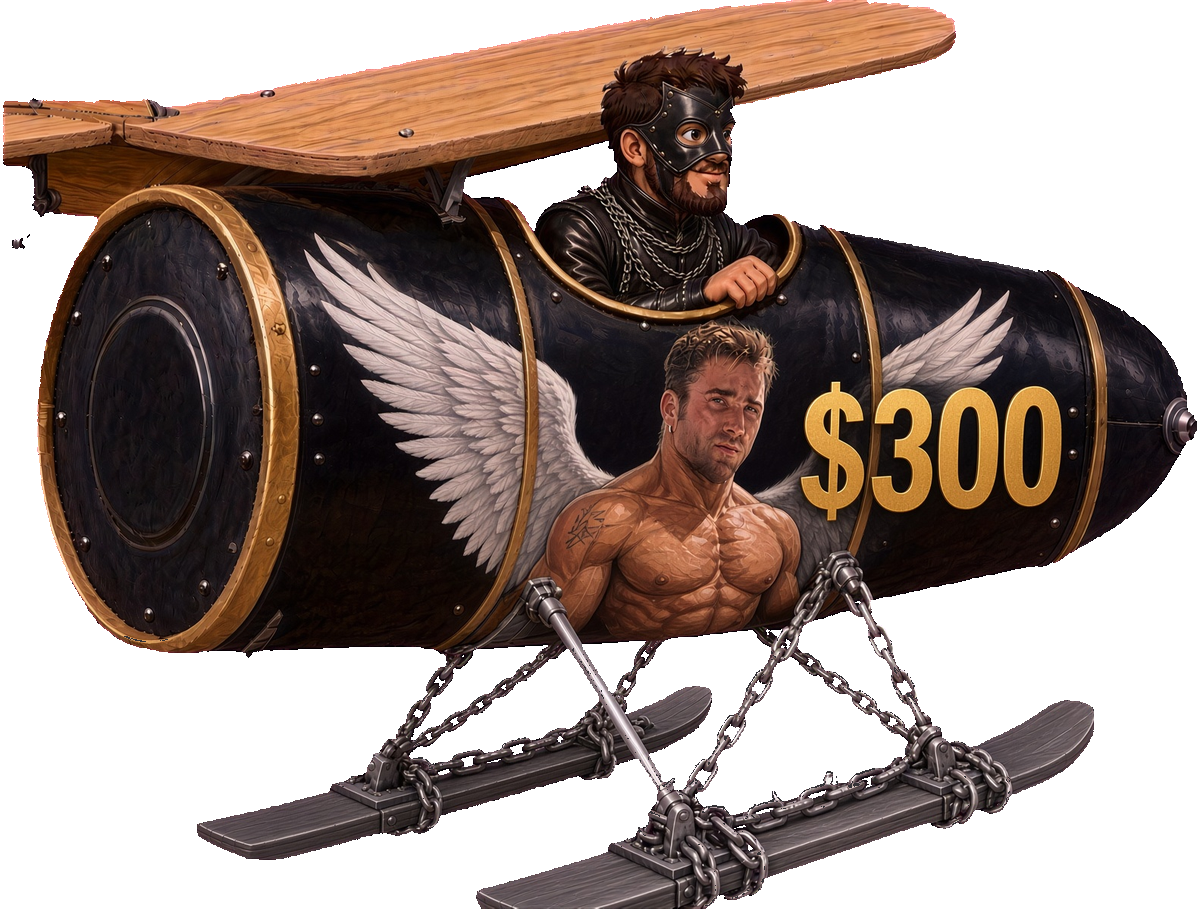
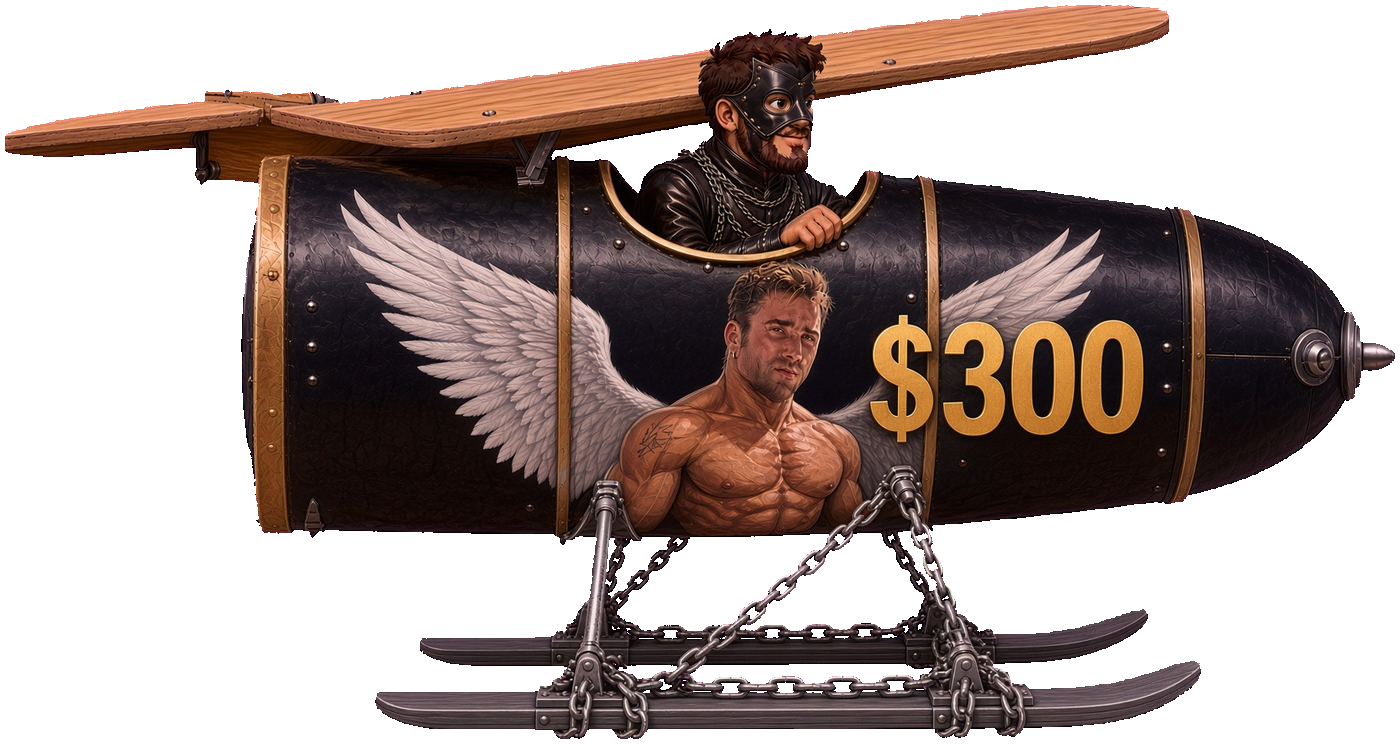
Shorten every route to 1.5 km and reshape the Red Baron.
The red fuselage is a bullet: streamlined nose, flat rear, with two beams and a crossbar for the wings.

diff --git a/src/game/content.ts b/src/game/content.ts
@@ -13,10 +13,10 @@ export type SkinDef = {
 };
 
 export const SKINS: SkinDef[] = [
-  { id: "barrel", name: "Бочка", file: "hero", line: "двор", tune: "фонк", track: "/game/track.mp3", pace: 1, drawH: 168, prop: true },
-  { id: "gachi", name: "Гачимучилёт", file: "hero-gachi", line: "Билли и цепи", tune: "gachi remix", track: "/game/track-gachi.mp3", pace: 1, drawH: 168, prop: true },
-  { id: "baron", name: "Красный Патрон", file: "hero-baron", line: "пулемёт и шасси", tune: "Red Baron", track: "/game/track-baron.mp3", pace: 1, drawH: 168, prop: true },
-  { id: "mig", name: "МиГ-31", file: "hero-mig", line: "быстрее", tune: "три полоски", track: "/game/track-mig.mp3", pace: 1.62, drawH: 120, prop: false },
+  { id: "barrel", name: "Бочка", file: "hero", line: "двор", tune: "фонк", track: "/game/track.mp3", pace: 1, drawH: 140, prop: true },
+  { id: "gachi", name: "Гачимучилёт", file: "hero-gachi", line: "Билли и цепи", tune: "gachi remix", track: "/game/track-gachi.mp3", pace: 1, drawH: 132, prop: true },
+  { id: "baron", name: "Красный Патрон", file: "hero-baron", line: "пуля и балки", tune: "Red Baron", track: "/game/track-baron.mp3", pace: 1, drawH: 118, prop: true },
+  { id: "mig", name: "МиГ-31", file: "hero-mig", line: "быстрее", tune: "три полоски", track: "/game/track-mig.mp3", pace: 1.62, drawH: 100, prop: false },
 ];
 
 export function skinById(id: string | undefined): SkinDef {
@@ -83,6 +83,8 @@ export type StageDef = {
   brief: string;
   clear: string;
   gust: number;
+  /** Длина рейса в километрах. Одна и та же для всех бортов. */
+  km: number;
   scenery: Scenery;
   beats: Beat[];
 };
@@ -186,6 +188,7 @@ export const STAGES: StageDef[] = [
     brief: "Утро. Взлёт с грядки. Курица маршрут не согласовывала, бельё — тем более.",
     clear: "Забор позади. Бочка всё ещё верит в аэродинамику.",
     gust: 0,
+    km: 1.5,
     scenery: {
       sky: "sky-yard",
       far: "far-yard",
@@ -194,7 +197,7 @@ export const STAGES: StageDef[] = [
       vignette: "rgba(80, 48, 18, 0.2)",
       streak: "#f6e2b8",
     },
-    beats: extend(yard),
+    beats: yard,
   },
   {
     id: "district",
@@ -203,6 +206,7 @@ export const STAGES: StageDef[] = [
     brief: "Полдень между панелями. Диван вышел на встречный эшелон без заявки.",
     clear: "Двор позади, район пережит. Пропеллер ещё круглый.",
     gust: 0.05,
+    km: 1.5,
     scenery: {
       sky: "sky-district",
       far: "far-district",
@@ -211,7 +215,7 @@ export const STAGES: StageDef[] = [
       vignette: "rgba(30, 48, 70, 0.16)",
       streak: "#f4f0e4",
     },
-    beats: extend(district),
+    beats: district,
   },
   {
     id: "highway",
@@ -220,6 +224,7 @@ export const STAGES: StageDef[] = [
     brief: "К вечеру над пробкой. Билборды аплодируют сами себе.",
     clear: "Пробка осталась внизу. Бочка считает это победой.",
     gust: 0.13,
+    km: 1.5,
     scenery: {
       sky: "sky-highway",
       far: "far-highway",
@@ -228,7 +233,7 @@ export const STAGES: StageDef[] = [
       vignette: "rgba(90, 40, 10, 0.22)",
       streak: "#ffd7a1",
     },
-    beats: extend(highway),
+    beats: highway,
   },
   {
     id: "field",
@@ -237,6 +242,7 @@ export const STAGES: StageDef[] = [
     brief: "Закат. Открытый воздух, только ниже. Провода помнят каждого.",
     clear: "Поле пройдено. Яблоки не засчитали как зенит.",
     gust: 0.08,
+    km: 1.5,
     scenery: {
       sky: "sky-field",
       far: "far-field",
@@ -245,7 +251,7 @@ export const STAGES: StageDef[] = [
       vignette: "rgba(70, 20, 30, 0.28)",
       streak: "#ffc2a0",
     },
-    beats: extend(field),
+    beats: field,
   },
   {
     id: "summit",
@@ -254,6 +260,7 @@ export const STAGES: StageDef[] = [
     brief: "Ночь. Шампанское, портфели и красная дорожка где-то справа.",
     clear: "Борт сел. Бочка цела, рейс закрыт.",
     gust: 0.17,
+    km: 1.5,
     scenery: {
       sky: "sky-summit",
       far: "far-summit",
@@ -262,7 +269,7 @@ export const STAGES: StageDef[] = [
       vignette: "rgba(4, 8, 24, 0.45)",
       streak: "#d7e4ff",
     },
-    beats: extend(summit),
+    beats: summit,
   },
   {
     id: "boss",
@@ -271,6 +278,7 @@ export const STAGES: StageDef[] = [
     brief: "Сначала обычный подлёт. Потом слева на всю сторону высовывается голова.",
     clear: "Мирный договор. Палец вверх.",
     gust: 0,
+    km: 1.5,
     scenery: {
       sky: "sky-summit",
       far: "far-summit",
@@ -297,14 +305,21 @@ export const RADIOS = [
   "Речь — штатное противообледенительное.",
 ];
 
-export const PX_PER_M = 42;
+/** Пикселей на километр маршрута. Крейсер бочки ~230 км/ч, МиГ ~370 км/ч. */
+export const PX_PER_KM = 4200;
+/** Внутренний шаг разметки. 100 таких метров = 1 км на табло. */
+export const PX_PER_M = PX_PER_KM / 100;
 
 export function courseOf(stage: StageDef) {
-  let m = 42;
+  const sum = stage.beats.reduce((total, beat) => total + beat.gap, 0);
+  const leadKm = 0.12;
+  const usable = Math.max(0.4, stage.km - leadKm);
+  const gapKm = usable / sum;
+  let cursor = leadKm;
   const marks = stage.beats.map((beat) => {
-    const at = m;
-    m += beat.gap;
-    return { at, beat };
+    const at = cursor;
+    cursor += beat.gap * gapKm;
+    return { at: at * 100, beat };
   });
-  return { marks, goal: Math.round(m + 55) };
+  return { marks, goal: stage.km };
 }

diff --git a/src/game/sim.ts b/src/game/sim.ts
@@ -1,4 +1,4 @@
-import { KINDS, PX_PER_M, RADIOS, STAGES, courseOf, skinById, type KindId, type SkinId, type StageDef } from "./content";
+import { KINDS, PX_PER_KM, PX_PER_M, RADIOS, STAGES, courseOf, skinById, type KindId, type SkinId, type StageDef } from "./content";
 
 export type Phase = "title" | "play" | "fail" | "clear" | "done" | "treaty";
 
@@ -132,7 +132,7 @@ export class Sim {
   }
 
   get points() {
-    return Math.floor(this.meters) * 10 + this.bonus;
+    return Math.floor(this.meters * 100) * 10 + this.bonus;
   }
 
   get radioLine() {
@@ -191,10 +191,7 @@ export class Sim {
     this.announced = false;
     this.reason = "Бочку закрутило";
     this.resetBoss();
-    if (this.stage.id === "boss") {
-      this.goal = 9999;
-      this.bossPhase = "fly";
-    }
+    if (this.stage.id === "boss") this.bossPhase = "fly";
     this.pops = [];
     this.rings = [];
     this.bits = [];
@@ -247,7 +244,7 @@ export class Sim {
     const gust = Math.sin(this.time * 1.7 + this.stageIndex * 1.3) * this.stage.gust;
     this.alt = clamp(this.alt + climb * 0.64 * dt + gust * dt, 0.02, 0.94);
     this.worldX += this.speed * dt;
-    this.meters = this.worldX / PX_PER_M;
+    this.meters = this.worldX / PX_PER_KM;
     this.speech = Math.min(1, this.speech + dt / 2.55);
     this.invuln = Math.max(0, this.invuln - dt);
     this.shake = Math.max(0, this.shake - dt * 22);
@@ -281,7 +278,7 @@ export class Sim {
       }
     } else if (this.stage.id === "boss") {
       this.bossStep(dt);
-    } else if (!this.announced && this.meters >= this.goal - 16) {
+    } else if (!this.announced && this.meters >= this.goal - 0.2) {
       this.announced = true;
       this.popup("ПОЛОСА", this.playerX(), this.playerY() - 70);
     } else if (this.meters >= this.goal && this.failIn <= 0) {
@@ -401,7 +398,7 @@ export class Sim {
 
   private bossStep(dt: number) {
     if (this.bossPhase === "fly") {
-      if (this.meters > 52) {
+      if (this.meters >= this.goal) {
         this.bossPhase = "in";
         this.bossEnter = 0;
         this.bossLabel = "Слева по борту";

diff --git a/src/game/Game.tsx b/src/game/Game.tsx
@@ -1,6 +1,6 @@
 import { useEffect, useRef, useState } from "react";
 import { Volume2, VolumeX } from "lucide-react";
-import { SKINS, STAGES, type SkinId } from "./content";
+import { PX_PER_KM, SKINS, STAGES, type SkinId } from "./content";
 import { ASSET_NAMES, VIEW, assetUrl, draw } from "./draw";
 import { Sfx } from "./audio";
 import { Sim, type Phase } from "./sim";
@@ -175,7 +175,7 @@ export function Game() {
               </div>
               <div className="ticket">
                 <div className="k">скорость</div>
-                <div className="v">{Math.round(hud.speed * 0.42)} км/ч</div>
+                <div className="v">{Math.round((hud.speed * 3600) / PX_PER_KM)} км/ч</div>
                 <div className="s">{hud.points} очков{hud.combo > 1 ? ` · ×${hud.combo}` : ""}</div>
               </div>
             </div>
@@ -226,7 +226,7 @@ export function Game() {
                         }}
                       >
                         {item.name}
-                        <small>{hud.bests[index] ? `${hud.bests[index]}` : item.flight}</small>
+                        <small>{item.km} км</small>
                       </button>
                     ))}
                   </div>
@@ -253,7 +253,7 @@ export function Game() {
                     Start
                   </button>
                   <p className="help">
-                    {stage.flight} · {stage.name} · {stage.scenery.when}. W / ↑ газ и набор · S / ↓ вниз · A / ← влево · D / → вправо · пробел — речь
+                    {stage.flight} · {stage.name} · {stage.km} км · {stage.scenery.when}. W / ↑ газ и набор · S / ↓ вниз · A / ← влево · D / → вправо · пробел — речь
                   </p>
                 </>
               )}
@@ -385,8 +385,8 @@ function Hold({
   );
 }
 
-function km(meters: number) {
-  return (meters / 100).toFixed(meters >= 10000 ? 0 : 1);
+function km(value: number) {
+  return Math.max(0, value).toFixed(1);
 }
 
 function snapshot(sim: Sim) {

diff --git a/src/game/draw.ts b/src/game/draw.ts
@@ -319,7 +319,7 @@ function drawPlayer(ctx: CanvasRenderingContext2D, sim: Sim, images: Record<stri
     const ps = hh * 0.36;
     ctx.save();
     // Flight is toward the right, so the nose is the right end of the barrel.
-    ctx.translate(-hw / 2 + hw * 0.95, -hh / 2 + hh * 0.51);
+    ctx.translate(-hw / 2 + hw * 0.97, -hh / 2 + hh * 0.5);
     ctx.rotate(sim.prop);
     ctx.drawImage(prop, -ps / 2, -ps / 2, ps, ps);
     ctx.restore();
